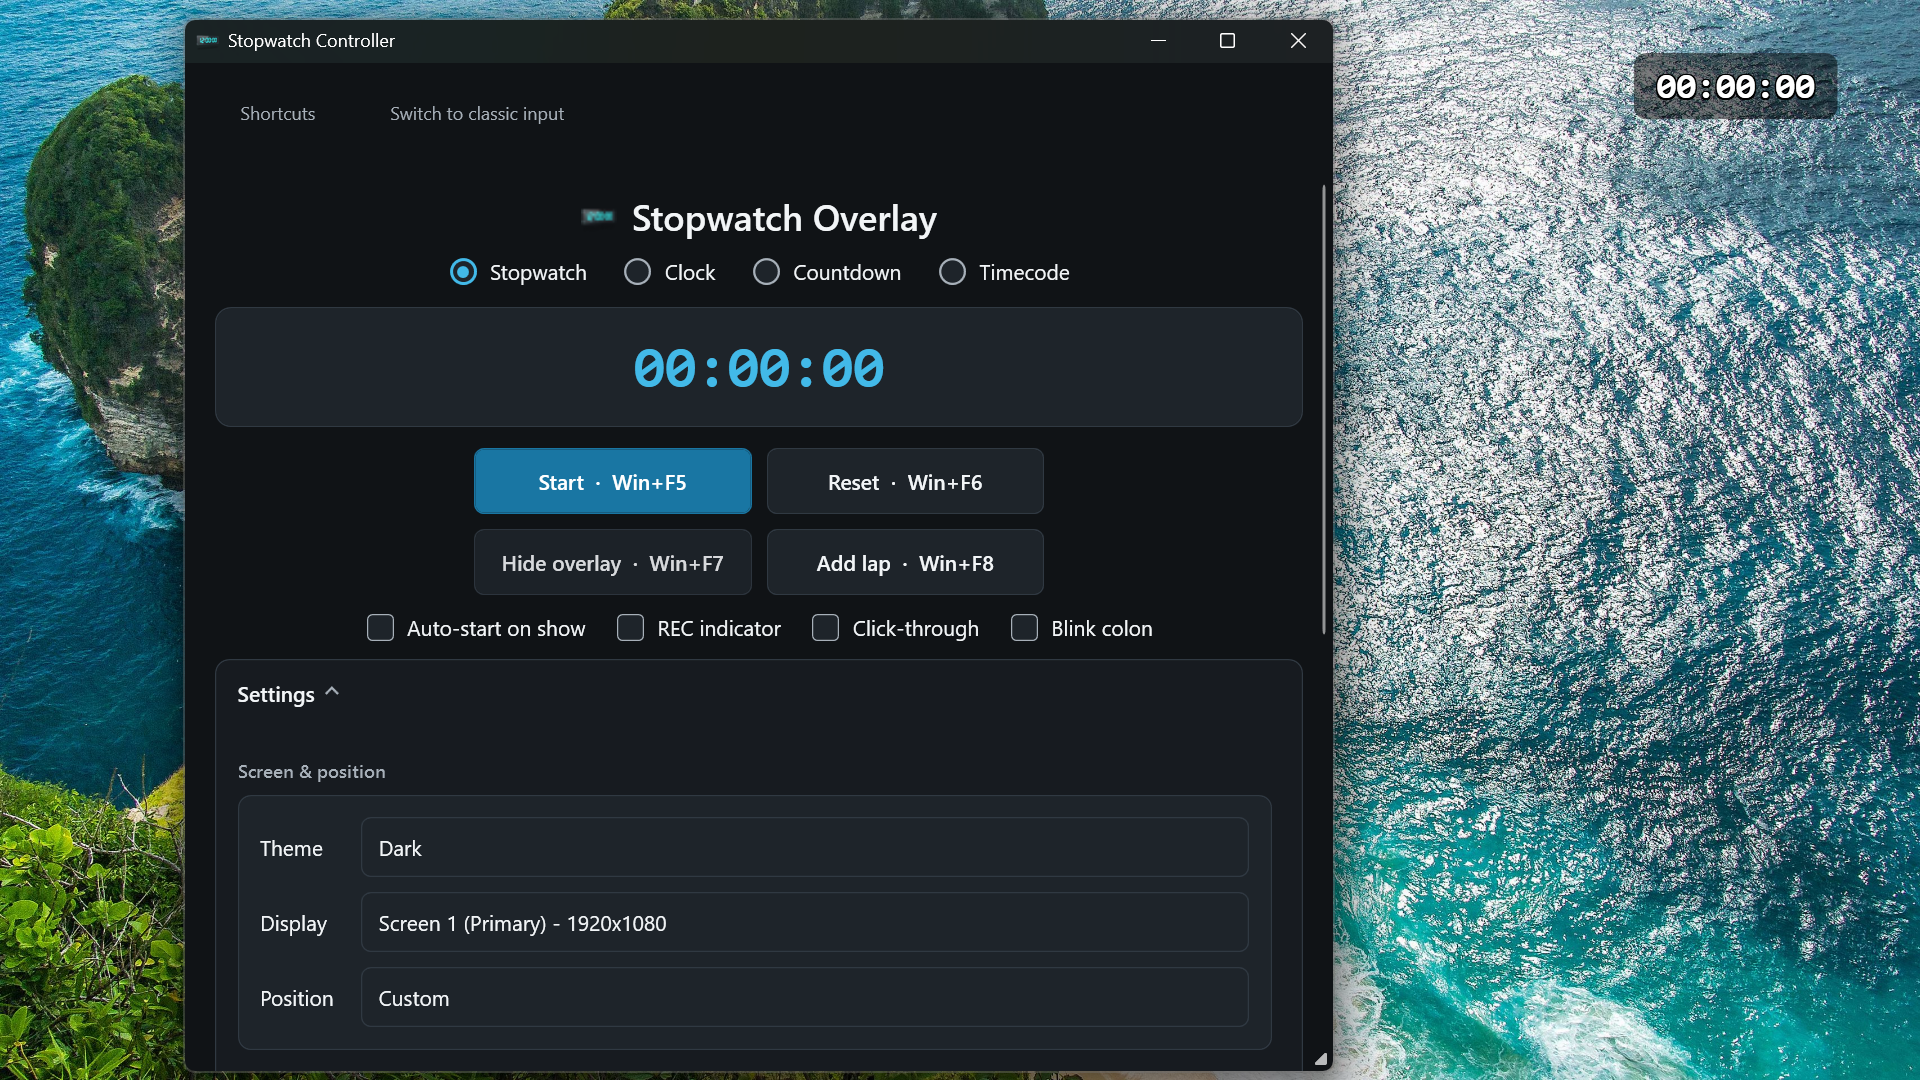
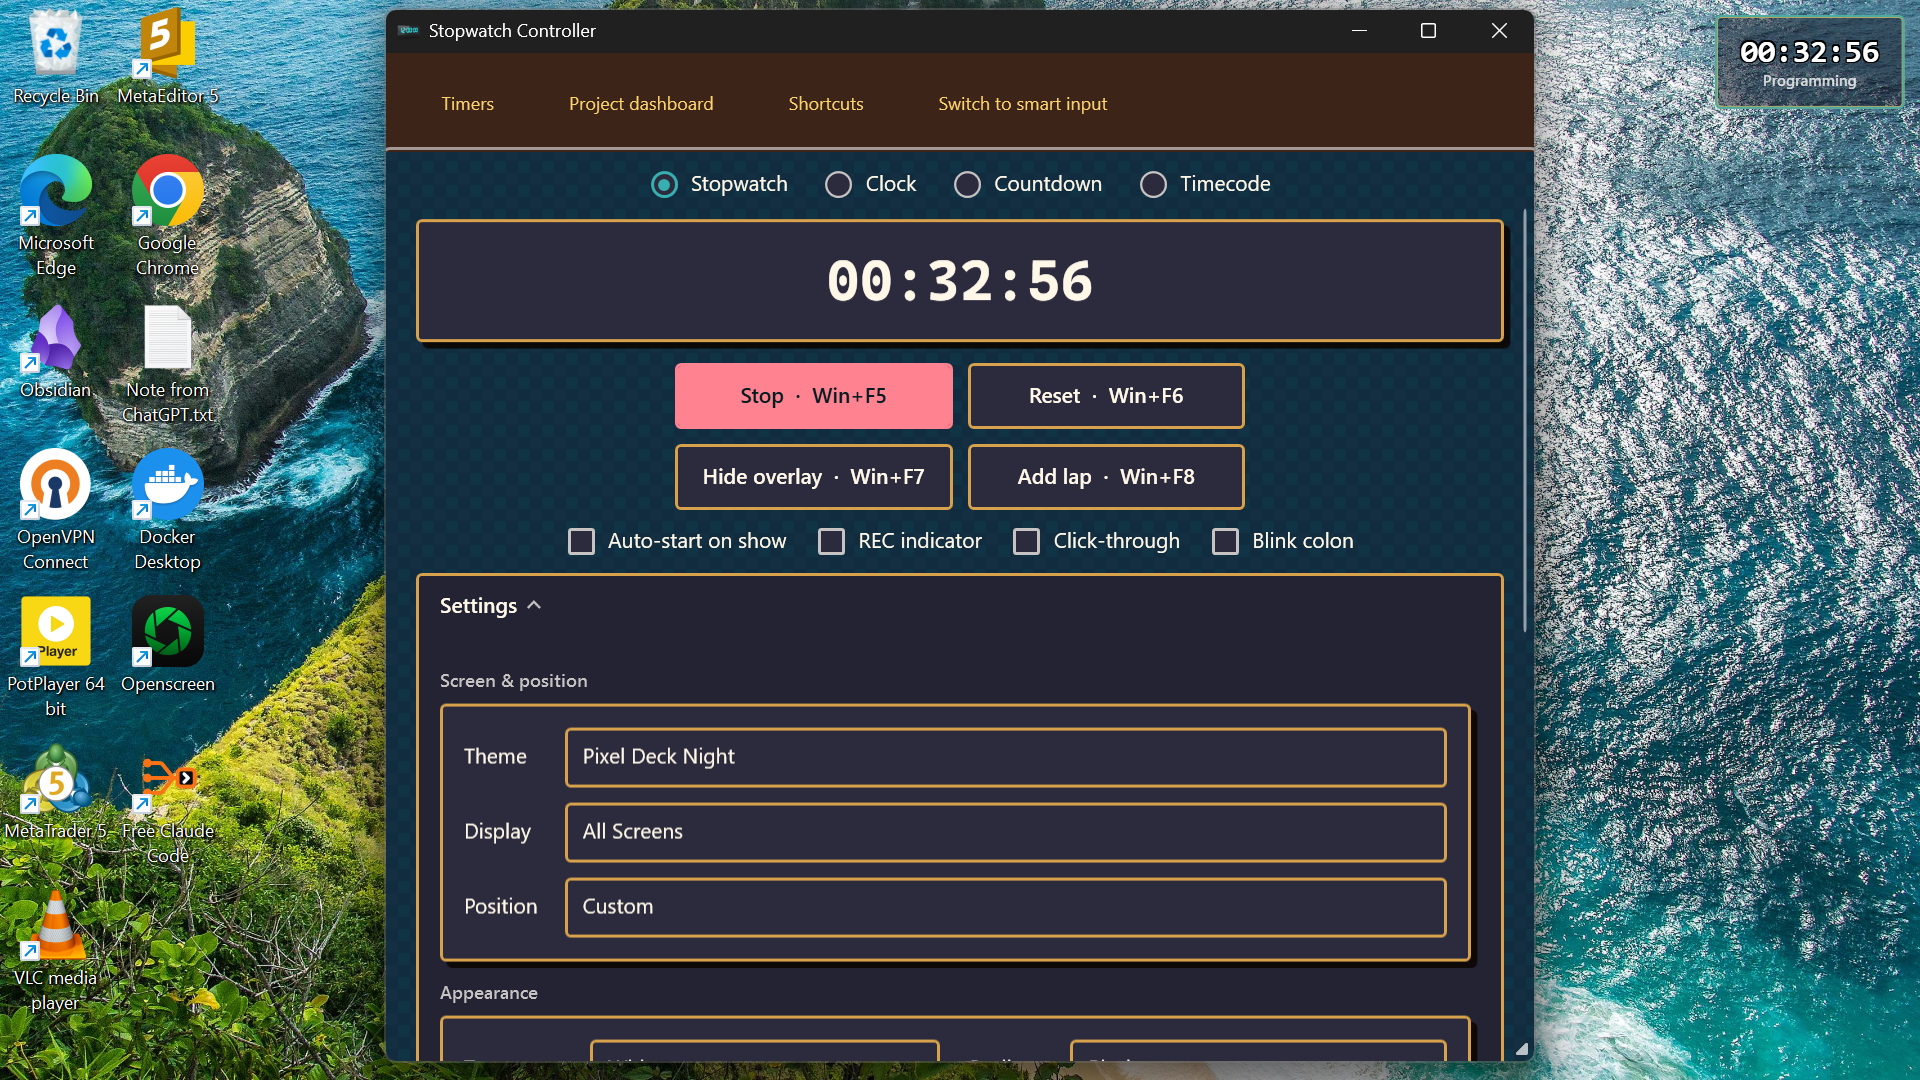
docs: refresh README images and feature overview

diff --git a/README.md b/README.md
@@ -8,11 +8,11 @@ A transparent, always-on-top timer overlay and lightweight project time tracker 
 **🌐 [Project Website](https://clemensv.github.io/stopwatch/)**
 
 <p align="center">
-  <img src="controller-window.png" alt="Stopwatch Overlay Controller and settings" width="500">
+  <img src="promo.png" alt="Stopwatch Overlay running in Pixel Deck Night with a floating project timer" width="960">
 </p>
 
 <p align="center">
-  <img src="promo.png" alt="Stopwatch Overlay Controller and settings" width="500">
+  <em>A multi-timer desktop workspace with project tracking, global shortcuts, and persistent floating overlays.</em>
 </p>
 
 ---
@@ -23,24 +23,35 @@ Stopwatch Overlay places customizable timers on top of all your windows — incl
 
 ### Features
 
-- ⏱ **Four modes** — Stopwatch, real-time clock, countdown timer (fixed duration or count down to a clock time), and frame-accurate timecode
-- 🧩 **Multiple independent timers** — Create several floating timers, keep them running at the same time, and select which one the controls affect
-- 🗂 **Combined timer view** — Press Win+F12 to place all open timers in one shared floating overlay, then use Win+F3 to switch the timer it displays
-- 📚 **Project time history** — Assign a timer to an existing or new project and automatically record each work session
-- 📊 **Project dashboard** — Review totals, charts, timelines, and individual sessions, then open the records page to add or correct historical time
-- 🖥 **Multi-monitor** — Show the overlay on one screen or all screens at once
-- 📌 **Always on top** — Stays visible over fullscreen apps, games, and camera feeds
-- 🎨 **Fully customizable** — Text color, border, font, size, background opacity
-- ⌨ **Global hotkeys** — Win+F2 through Win+F12 work from any application and can be customized
-- 🔄 **Quick clock toggle** — Switch between the current mode and Clock with Win+F9 or right-click the overlay
-- 🏷 **Project labels** — Choose an existing project or create a new project name for the active timer with Win+F10
-- 🖱 **Overlay controls** — Hover over a timer for close, pause/resume, and reset controls
-- 💾 **Automatic recovery** — Restore every timer after a restart, shutdown, or crash; running timers include the time the app was closed
-- 🏁 **Lap times** — Record split times while the timer runs
--  **REC indicator** — Optional blinking recording dot
-- 🖱 **Click-through mode** — Overlay doesn't interfere with mouse clicks
-- 👻 **Hidden from Alt+Tab** — Keeps your taskbar clean
-- 🚀 **Start with Windows** — Optionally launch the overlay automatically when you sign in
+- ⏱ **Four timing modes** — Stopwatch, real-time clock, fixed or wall-clock countdown, and frame-accurate timecode
+- 🧩 **Independent multi-timer workspace** — Create several floating timers, run them simultaneously, name them, and choose which timer receives commands
+- 🗂 **Combined timer view** — Merge every open timer into one compact overlay and cycle the active timer without stopping the others
+- 🏷 **Automatic project tracking** — Assign an existing or new project to a timer and record every running work session automatically
+- 📝 **Editable project records** — Browse complete project history, add past work manually, and correct completed records without changing active sessions
+- 📊 **Project time dashboard** — Filter Today, 7 days, 30 days, or All time; compare project totals, daily activity, timelines, and detailed sessions
+- 🎨 **Four professional themes** — Midnight, Daylight, Pixel Deck Night, and Pixel Deck Day, all backed by the same consistent design tokens
+- 🖌 **Deep overlay customization** — Choose display, position, text and outline colors, font, format, size, thickness, opacity, and optional light ring
+- 🖥 **Multi-monitor and presentation tools** — Show timers on one or every display, keep them always on top, enable click-through, or hide overlays from screen capture
+- 🖱 **Direct overlay controls** — Click a timer to activate it; hover for close, pause/resume, and reset controls
+- ⌨ **Customizable global shortcuts** — Win+F2 through Win+F12 control timers, projects, the dashboard, and combined view from any application
+- 🧠 **Smart countdown input** — Enter natural durations, clock times, dates, weekdays, months, or years with a live interpretation preview
+- 💾 **Crash-safe recovery** — Restore timers, running/paused state, projects, laps, positions, and combined/separate presentation after restart, shutdown, or a crash
+- 🚀 **Desktop integration** — Start with Windows, close the controller to the notification area, and exit explicitly from the tray menu
+- 🎬 **Recording helpers** — Lap times, optional REC indicator, blinking colon, auto-show behavior, and capture protection
+
+## Interface previews
+
+### Pixel Deck controller and settings
+
+<p align="center">
+  <img src="controller-window.png" alt="Pixel Deck controller and settings interface" width="900">
+</p>
+
+### Project time dashboard
+
+<p align="center">
+  <img src="project-dashboard.png" alt="Project time dashboard with totals, charts, timeline, and session history" width="960">
+</p>
 
 ---
 
@@ -76,6 +87,8 @@ self-contained release includes the runtime and does not require a separate inst
 4. Choose your target **screen** and **position** from the dropdowns
 5. Customize colors, font, size, and opacity in the **Settings** panel
 6. **Drag** the overlay with your mouse for pixel-perfect placement
+
+Close the controller whenever you want it out of the way. The application continues running in the notification area and keeps every timer active; right-click its tray icon and choose **Exit** to close it completely.
 
 Press **Win+F2** to create another timer. Each timer can run independently. Click an overlay or press **Win+F3** to make that timer active; the regular timer shortcuts then affect only the active timer.
 
